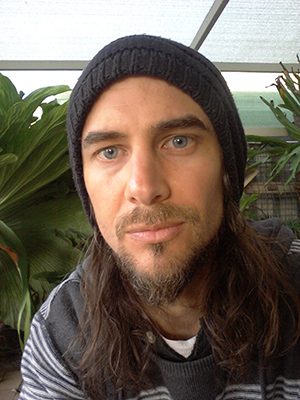
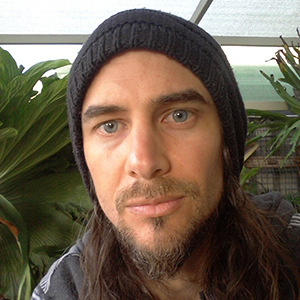
Team Profile - Design Stage
- Fixed some image sizes
- Started layout of team profiles
- Using Modals for each team members profile

diff --git a/index-dev.html b/index-dev.html
@@ -66,8 +66,57 @@
 				<hr class="m-0" />
 
 				<section id="team-profile">
-					<div class="section-content">
-						<p>Team Profile Place Holder</p>
+					<div class="section-content container-fluid">
+						<div class="profilename row">
+							<div class="col">
+								<a href="" data-toggle="modal" data-target="#profile-adam">
+										<img class="profilepic img-fluid img-thumbnail rounded-circle" src="images/teamprofiles/adam.jpg" alt="Profile Picture">
+								</a>
+								<br />
+								Adam Mutimer
+							</div>
+							<div class="col">
+								<img class="profilepic img-fluid img-thumbnail rounded-circle" src="images/teamprofiles/channon.jpg" alt="Profile Picture"><br />
+								Channon Harper
+							</div>
+							<div class="col">
+								<img class="profilepic img-fluid img-thumbnail rounded-circle" src="images/teamprofiles/daniel.jpg" alt="Profile Picture"><br />
+								Daniel Scarfe
+							</div>
+						</div>
+						<div class="profilename row pt-5">
+							<div class="col">
+								<img class="profilepic img-fluid img-thumbnail rounded-circle" src="images/teamprofiles/jorge.jpg" alt="Profile Picture"><br />
+								Jorge Esteban
+							</div>
+							<div class="col">
+								<img class="profilepic img-fluid img-thumbnail rounded-circle" src="images/teamprofiles/madeleine.jpg" alt="Profile Picture"><br />
+								Madeleine Dupree
+							</div>
+							<div class="col">
+								<img class="profilepic img-fluid img-thumbnail rounded-circle" src="images/teamprofiles/samuel.jpg" alt="Profile Picture"><br />
+								Samuel Mennen
+							</div>
+						</div>
+						<!-- Modal -->
+						<div class="modal fade" id="profile-adam" tabindex="-1" role="dialog" aria-labelledby="profile-adam" aria-hidden="true">
+							<div class="modal-dialog modal-dialog-centered" role="document">
+								<div class="modal-content">
+									<div class="modal-header">
+										<h5 class="modal-title" id="exampleModalLongTitle">Adam Mutimer</h5>
+										<button type="button" class="close" data-dismiss="modal" aria-label="Close">
+											<span aria-hidden="true">&times;</span>
+										</button>
+									</div>
+									<div class="modal-body">
+										Basic Profile Stuff here :)
+									</div>
+									<div class="modal-footer">
+										<button type="button" class="btn btn-secondary" data-dismiss="modal">Close</button>
+									</div>
+								</div>
+							</div>
+						</div>
 					</div>
 				</section>
 				<hr class="m-0" />

diff --git a/css/styles.css b/css/styles.css
@@ -23,6 +23,22 @@ section {
   max-width: 75rem;
   min-height: 100vh;
 } 
+.profilepic {
+	width: 180px !important;
+	height: 180px !important;
+}
+
+.profilename {
+	text-align: center !important;
+	line-height: 30px !important;
+}
+
+.modal-content h5 {
+	color: #000000 !important;
+}
+.modal-content {
+	color: #000000 !important;
+}
 
 /* Fixed Left Navbar */
 body{
